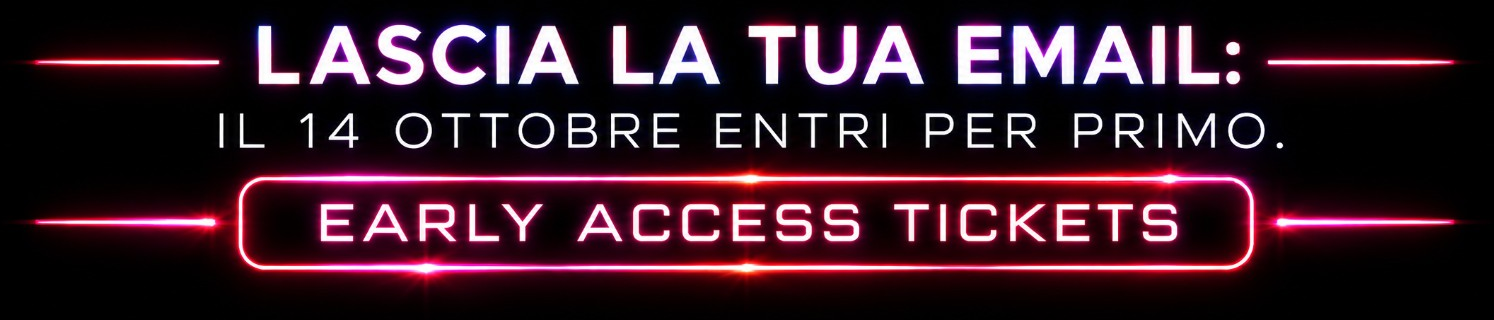
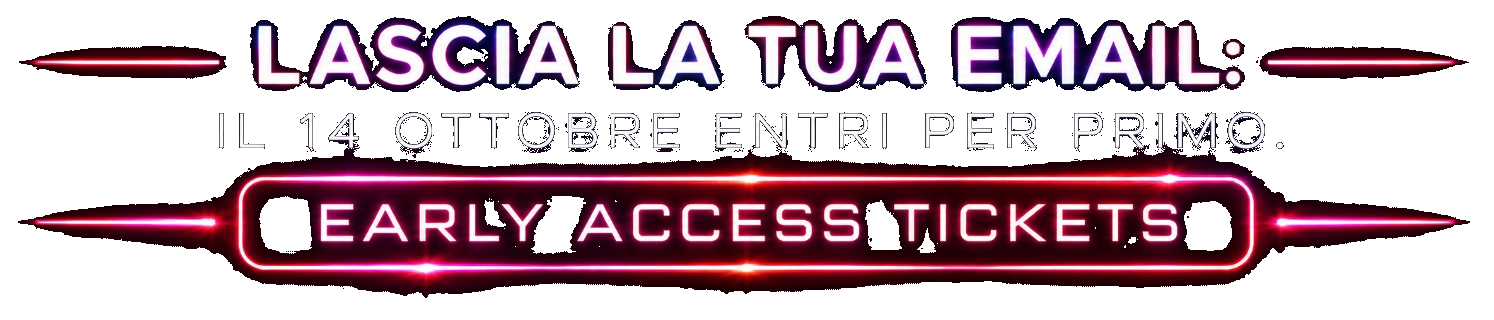
Add files via upload

diff --git a/countdown-screen.css b/countdown-screen.css
@@ -1,4 +1,8 @@
-/* ==========================================================================\n   NEWCOUNT — FULL BLEED / HQ ORIGINAL ASSETS\n   Static artwork is taken from the original PNGs supplied in chat.\n   No JPEG/WebP recompression is used for the visible campaign lettering.\n   ========================================================================== */
+/* ==========================================================================
+   NEWCOUNT — FULL BLEED / HQ ORIGINAL ASSETS / TRANSPARENT LETTERING
+   Updated so the lettering PNGs no longer carry visible black rectangles and
+   the whole composition sits more centrally in the viewport.
+   ========================================================================== */
 
 html.countdown-expired #countdownScreen{display:none!important}
 body.gate-active{overflow:hidden!important;touch-action:manipulation}
@@ -16,12 +20,11 @@ body.gate-active{overflow:hidden!important;touch-action:manipulation}
 #countdownScreen::before{
   content:"";position:absolute;inset:0;z-index:0;pointer-events:none;
   background:
-    linear-gradient(180deg,rgba(0,0,0,.07) 0%,rgba(0,0,0,.05) 34%,rgba(0,0,0,.13) 64%,rgba(0,0,0,.30) 100%),
-    radial-gradient(ellipse at 50% 50%,transparent 0 33%,rgba(0,0,0,.16) 78%,rgba(0,0,0,.36) 100%);
+    linear-gradient(180deg,rgba(0,0,0,.05) 0%,rgba(0,0,0,.04) 28%,rgba(0,0,0,.10) 58%,rgba(0,0,0,.22) 100%),
+    radial-gradient(ellipse at 50% 50%,transparent 0 33%,rgba(0,0,0,.11) 78%,rgba(0,0,0,.28) 100%);
 }
 #countdownScreen.is-expired{opacity:0!important;visibility:hidden!important;pointer-events:none!important;transform:scale(1.012)!important}
 
-/* Soft star field stays behind all supplied artwork. */
 .gate-stars{position:absolute;inset:0;z-index:1;pointer-events:none;overflow:hidden;opacity:.52}
 .gate-star{position:absolute;border-radius:50%;background:#fff;opacity:0;animation:gateTwinkle var(--tw-dur,3s) ease-in-out infinite var(--tw-delay,0s)}
 .gate-star:nth-child(3n){box-shadow:0 0 7px #ff2a78,0 0 18px #ff2a785e!important}
@@ -29,7 +32,6 @@ body.gate-active{overflow:hidden!important;touch-action:manipulation}
 .gate-star:nth-child(3n+2){box-shadow:0 0 6px #fff,0 0 14px #ffffff44!important}
 @keyframes gateTwinkle{0%,100%{opacity:var(--min-op,.08);transform:scale(.72)}50%{opacity:var(--max-op,.8);transform:scale(1.25)}}
 
-/* Full viewport artboard: all placements are relative to the actual device. */
 .gate-center-stack{
   position:absolute;inset:0;z-index:2;
   width:100%;height:100%;min-height:0;margin:0;padding:0;
@@ -37,18 +39,16 @@ body.gate-active{overflow:hidden!important;touch-action:manipulation}
 }
 
 /* --------------------------------------------------------------------------
-   HERO — original full-resolution supplied artwork, lossless cropped only.
-   Black in the original is blended away with SCREEN, preserving the neon.
+   HERO — transparent PNG assets, centered better in the viewport.
    -------------------------------------------------------------------------- */
 .gate-header{
   position:absolute;z-index:2;
-  left:50%;top:-4.5dvh;transform:translateX(-50%);
-  width:94vw;max-width:none;
+  left:50%;top:1.8dvh;transform:translateX(-50%);
+  width:92vw;max-width:none;
   aspect-ratio:1536/515;
   margin:0;
   background:url("gate-title-hq.png") center/100% 100% no-repeat;
-  mix-blend-mode:screen;
-  filter:drop-shadow(0 0 12px rgba(255,33,112,.30)) drop-shadow(0 8px 26px rgba(0,0,0,.64));
+  filter:drop-shadow(0 0 12px rgba(255,33,112,.28)) drop-shadow(0 8px 26px rgba(0,0,0,.60));
   isolation:isolate;overflow:visible;
   animation:gateLogoBreath 4.6s ease-in-out infinite;
 }
@@ -58,24 +58,20 @@ body.gate-active{overflow:hidden!important;touch-action:manipulation}
 }
 .gate-header::after{
   content:"";position:absolute;z-index:3;pointer-events:none;
-  left:50%;top:65%;transform:translateX(-50%);
-  width:88vw;aspect-ratio:1536/297;
+  left:50%;top:71%;transform:translateX(-50%);
+  width:84vw;aspect-ratio:1536/515;
   background:url("gate-rumore-desktop-hq.png") center/100% 100% no-repeat;
-  mix-blend-mode:screen;
-  filter:drop-shadow(0 0 13px rgba(255,20,105,.40)) drop-shadow(0 0 8px rgba(67,131,255,.28));
+  filter:drop-shadow(0 0 13px rgba(255,20,105,.38)) drop-shadow(0 0 8px rgba(67,131,255,.24));
 }
 @keyframes gateLogoBreath{
-  0%,100%{filter:drop-shadow(0 0 9px rgba(255,35,105,.24)) drop-shadow(0 8px 24px rgba(0,0,0,.65))}
-  50%{filter:drop-shadow(0 0 19px rgba(255,38,110,.44)) drop-shadow(0 8px 28px rgba(0,0,0,.72))}
+  0%,100%{filter:drop-shadow(0 0 9px rgba(255,35,105,.22)) drop-shadow(0 8px 24px rgba(0,0,0,.62))}
+  50%{filter:drop-shadow(0 0 18px rgba(255,38,110,.38)) drop-shadow(0 8px 28px rgba(0,0,0,.70))}
 }
 
-/* --------------------------------------------------------------------------
-   COUNTDOWN — placed in the free middle area of the full-screen composition.
-   -------------------------------------------------------------------------- */
 .gate-timer{
   position:absolute;z-index:5;
-  left:50%;top:60.5dvh;transform:translateX(-50%);
-  width:min(92vw,1080px);
+  left:50%;top:63dvh;transform:translateX(-50%);
+  width:min(90vw,1080px);
   display:flex;align-items:stretch;justify-content:center;gap:clamp(6px,1vw,13px);
 }
 .gate-unit{
@@ -92,13 +88,10 @@ body.gate-active{overflow:hidden!important;touch-action:manipulation}
 .gate-lbl{font:700 clamp(.52rem,.95vw,.72rem)/1 Arial,Helvetica,sans-serif;letter-spacing:.12em;text-transform:uppercase;color:rgba(255,255,255,.86)}
 .gate-sep{display:none}
 
-/* --------------------------------------------------------------------------
-   EMAIL FORM — wide on desktop and mobile, no narrow central column.
-   -------------------------------------------------------------------------- */
 .gate-signup{
   position:absolute;z-index:6;
-  left:50%;top:72.5dvh;transform:translateX(-50%);
-  width:min(92vw,1080px);
+  left:50%;top:75dvh;transform:translateX(-50%);
+  width:min(90vw,1080px);
   display:flex;flex-direction:column;align-items:center;
 }
 .gate-prompt{position:absolute!important;width:1px!important;height:1px!important;overflow:hidden!important;clip-path:inset(50%)!important;white-space:nowrap!important}
@@ -120,45 +113,37 @@ body.gate-active{overflow:hidden!important;touch-action:manipulation}
 .gate-status{min-height:18px;margin:4px 0 0;font:600 12px/1.35 Arial,Helvetica,sans-serif;color:#fff;text-shadow:0 0 8px rgba(255,255,255,.25)}
 .gate-status:empty{min-height:0;margin:0}.gate-status[data-status-key="success"],.gate-status.is-success{color:#91ffba}.gate-status[data-status-key="error"],.gate-status.is-error{color:#ff9aab}
 
-/* Bottom campaign line, from the original supplied PNG. */
 .gate-center-stack::after{
   content:"";position:absolute;z-index:4;pointer-events:none;
-  left:50%;top:78.5dvh;transform:translateX(-50%);
-  width:68vw;aspect-ratio:1494/320;
+  left:50%;top:82dvh;transform:translateX(-50%);
+  width:62vw;aspect-ratio:1494/320;
   background:url("gate-cta-hq.png") center/100% 100% no-repeat;
-  mix-blend-mode:screen;
   filter:drop-shadow(0 0 13px rgba(255,35,112,.34));
 }
 
-/* ==========================================================================
-   PORTRAIT / MOBILE — uses the native portrait stage supplied by the user.
-   Static campaign art is deliberately much wider here because vertical space
-   is plentiful; everything remains in one viewport without black side bars.
-   ========================================================================== */
 @media (orientation:portrait){
   #countdownScreen{background-image:url("gate-bg-mobile-hq.png");background-position:center center;background-size:cover}
-  #countdownScreen::before{background:linear-gradient(180deg,rgba(0,0,0,.05),rgba(0,0,0,.05) 34%,rgba(0,0,0,.15) 66%,rgba(0,0,0,.28) 100%),radial-gradient(ellipse at 50% 43%,transparent 0 34%,rgba(0,0,0,.12) 80%,rgba(0,0,0,.25) 100%)}
+  #countdownScreen::before{background:linear-gradient(180deg,rgba(0,0,0,.04),rgba(0,0,0,.04) 34%,rgba(0,0,0,.11) 66%,rgba(0,0,0,.22) 100%),radial-gradient(ellipse at 50% 43%,transparent 0 34%,rgba(0,0,0,.09) 80%,rgba(0,0,0,.20) 100%)}
 
-  .gate-header{top:1.2dvh;width:100vw;aspect-ratio:1536/515}
+  .gate-header{top:4.5dvh;width:100vw;aspect-ratio:1536/515}
   .gate-header::after{
-    top:88%;width:100vw;aspect-ratio:1520/530;
+    top:86%;width:100vw;aspect-ratio:1520/530;
     background-image:url("gate-rumore-mobile-hq.png");
   }
 
-  .gate-timer{top:39.5dvh;width:96vw;gap:5px}
+  .gate-timer{top:45dvh;width:96vw;gap:5px}
   .gate-unit{padding:12px 2px 10px;border-radius:13px}
   .gate-num{font-size:clamp(1.65rem,9.1vw,2.75rem)}
   .gate-lbl{font-size:clamp(.44rem,2.15vw,.62rem);letter-spacing:.075em}
 
-  .gate-signup{top:53.5dvh;width:96vw}
+  .gate-signup{top:59.5dvh;width:96vw}
   .gate-form-row{padding:4px 4px 4px 14px}
   .gate-input{font-size:14px;padding:11px 3px}
   .gate-btn{min-width:96px;padding:12px 16px;font-size:10.5px}
 
-  .gate-center-stack::after{top:61.5dvh;width:100vw;aspect-ratio:1494/320}
+  .gate-center-stack::after{top:69dvh;width:100vw;aspect-ratio:1494/320}
 }
 
-/* Very narrow phones: keep all four countdown boxes usable without wrapping. */
 @media (orientation:portrait) and (max-width:390px){
   .gate-timer,.gate-signup{width:98vw}
   .gate-timer{gap:4px}
@@ -167,14 +152,13 @@ body.gate-active{overflow:hidden!important;touch-action:manipulation}
   .gate-form-row{padding-left:11px}.gate-input{font-size:13px}.gate-btn{min-width:86px;padding:11px 11px;font-size:9.8px}
 }
 
-/* Short landscape phones / small notebook windows. */
 @media (orientation:landscape) and (max-height:620px){
-  .gate-header{top:-8dvh;width:83vw}
-  .gate-header::after{width:78vw;top:62%}
-  .gate-timer{top:58dvh;width:86vw;gap:6px}
+  .gate-header{top:-1.2dvh;width:84vw}
+  .gate-header::after{width:79vw;top:68%}
+  .gate-timer{top:61.5dvh;width:86vw;gap:6px}
   .gate-unit{padding:7px 3px 6px;border-radius:11px}.gate-num{font-size:1.75rem}.gate-lbl{font-size:.48rem}
-  .gate-signup{top:72dvh;width:86vw}.gate-input{padding:8px 3px}.gate-btn{padding:10px 18px}
-  .gate-center-stack::after{top:79dvh;width:57vw}
+  .gate-signup{top:75.5dvh;width:86vw}.gate-input{padding:8px 3px}.gate-btn{padding:10px 18px}
+  .gate-center-stack::after{top:82dvh;width:57vw}
 }
 
 @media (prefers-reduced-motion:reduce){.gate-header{animation:none!important}.gate-star{animation:none!important;opacity:.34!important}}

diff --git a/preview.html b/preview.html
@@ -1,0 +1,1 @@
+<!doctype html><html><head><meta charset='utf-8'><meta name='viewport' content='width=device-width,initial-scale=1,viewport-fit=cover'><link rel='stylesheet' href='countdown-screen.css'><style>html,body{margin:0;background:#000;font-family:Arial,sans-serif}</style></head><body class='gate-active'><aside id='countdownScreen'><div class='gate-stars'></div><div class='gate-center-stack'><div class='gate-header'><span class='gate-eyebrow'>OFFICIAL HOLOGRAM CONCERT</span><h2 class='gate-title'>RAFFAELLA CARRÀ</h2><p class='gate-subtitle'>THE SHOW MUST GO ON</p></div><div class='gate-timer'><div class='gate-unit'><span class='gate-num'>04</span><span class='gate-lbl'>GIORNI</span></div><span class='gate-sep'>:</span><div class='gate-unit'><span class='gate-num'>20</span><span class='gate-lbl'>ORE</span></div><span class='gate-sep'>:</span><div class='gate-unit'><span class='gate-num'>18</span><span class='gate-lbl'>MINUTI</span></div><span class='gate-sep'>:</span><div class='gate-unit'><span class='gate-num'>42</span><span class='gate-lbl'>SECONDI</span></div></div><div class='gate-signup'><form class='gate-form'><label class='gate-prompt'>Inserisci la mail</label><div class='gate-form-row'><input class='gate-input' placeholder='nome@email.it'><button class='gate-btn'>ISCRIVITI</button></div></form><p class='gate-status'></p></div></div></aside></body></html>
